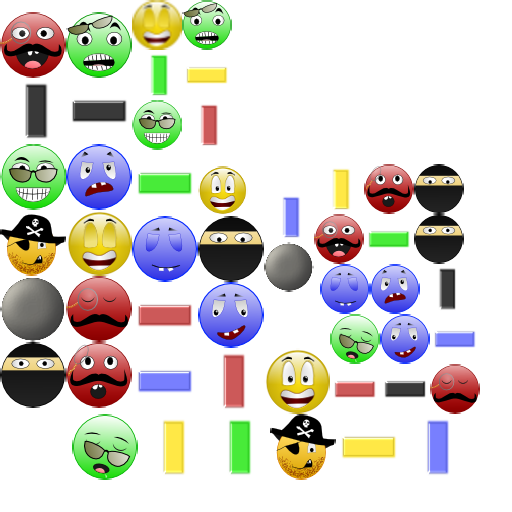
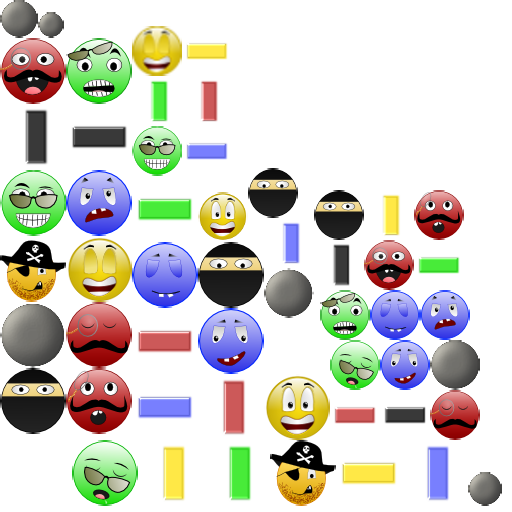
Affichage des nuisances qui vont tomber.

diff --git a/puyopuyo-android/src/com/tacoid/puyopuyo/actors/GridActor.java b/puyopuyo-android/src/com/tacoid/puyopuyo/actors/GridActor.java
@@ -1,6 +1,7 @@
 package com.tacoid.puyopuyo.actors;
 
 import com.badlogic.gdx.graphics.g2d.SpriteBatch;
+import com.badlogic.gdx.graphics.g2d.TextureAtlas.AtlasRegion;
 import com.badlogic.gdx.graphics.g2d.TextureRegion;
 import com.badlogic.gdx.scenes.scene2d.Actor;
 import com.tacoid.puyopuyo.PuyoPuyo;
@@ -16,6 +17,8 @@ public class GridActor extends Actor {
 	private TextureRegion[] boules_fall = new TextureRegion[6];
 	private TextureRegion[] boules_h = new TextureRegion[6];
 	private TextureRegion[] boules_v = new TextureRegion[6];
+	private TextureRegion next_nuisance_big;
+	private TextureRegion next_nuisance_small;
 	private PuyoPuyo puyopuyo;
 	private GameLogic logic;
 	private int origX;
@@ -73,11 +76,28 @@ public class GridActor extends Actor {
 		boules_v[3] = puyopuyo.atlasPuyo.findRegion("blue_vertical-" + sizePuyo);
 		boules_v[4] = puyopuyo.atlasPuyo.findRegion("black_vertical-" + sizePuyo);
 		
+		next_nuisance_big = puyopuyo.atlasPuyo.findRegion("next_nuisance-" + ((sizePuyo * 3) / 4));
+		next_nuisance_small = puyopuyo.atlasPuyo.findRegion("next_nuisance-" + (sizePuyo / 2));
+		
 		white = puyopuyo.atlasPuyo.findRegion("white-" + sizePuyo);
 	}
 
 	@Override
 	public void draw(SpriteBatch batch, float alpha) {
+		int garbage = logic.garbage;
+		int offset = 0;
+		
+		while (garbage >= logic.COLUMNS) {
+			batch.draw(next_nuisance_big, origX + offset, origY + 5 + logic.LINES * size - size / 4);
+			offset += size * 3 / 4;
+			garbage -= logic.COLUMNS;
+		}
+		while (garbage > 0) {
+			batch.draw(next_nuisance_small, origX + offset, origY + 5 + logic.LINES * size - size / 4);
+			offset += size / 2;
+			garbage--;
+		}
+		
 		int[][] grid = logic.getGrid();
 		
 		for (int l = 0; l < logic.LINES; l++) {

diff --git a/puyopuyo-android/src/com/tacoid/puyopuyo/logic/GameLogic.java b/puyopuyo-android/src/com/tacoid/puyopuyo/logic/GameLogic.java
@@ -40,7 +40,7 @@ public class GameLogic {
 	private boolean isDown = false;
 	private GameLogic opponent = null;
 	private int points = 0;
-	private int garbage = 0;
+	public int garbage = 0;
 	private float leftoverNuisance = 0f;
 	
 	protected boolean paused = false;

diff --git a/puyopuyo-android/src/com/tacoid/puyopuyo/Controller.java b/puyopuyo-android/src/com/tacoid/puyopuyo/Controller.java
@@ -40,6 +40,9 @@ public class Controller implements InputProcessor {
 			break;
 		case Keys.BACK:
 			PuyoPuyo.getInstance().setScreen(MainMenuScreen.getInstance());
+			break;
+		default:
+			System.out.println("puyopuyo " + key);
 		}
 		return false;
 	}
